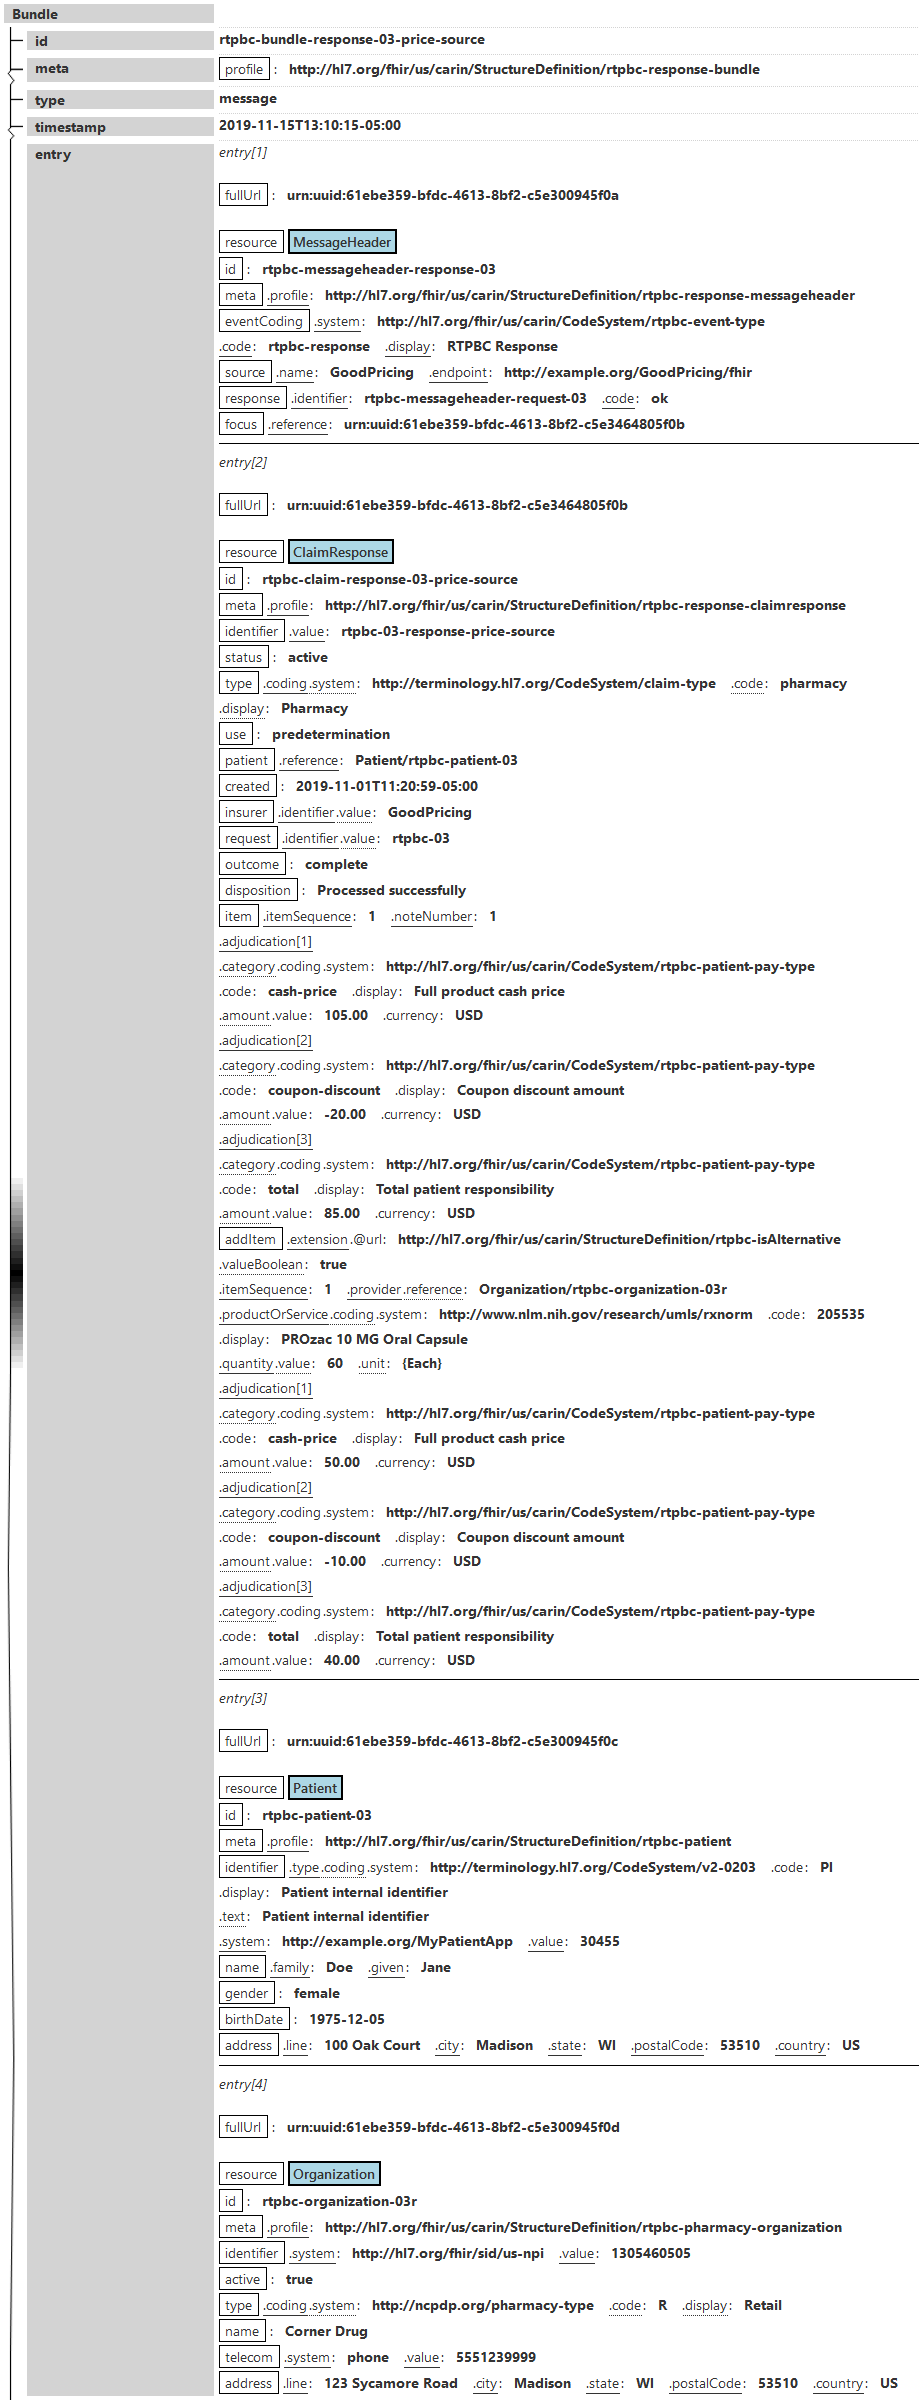
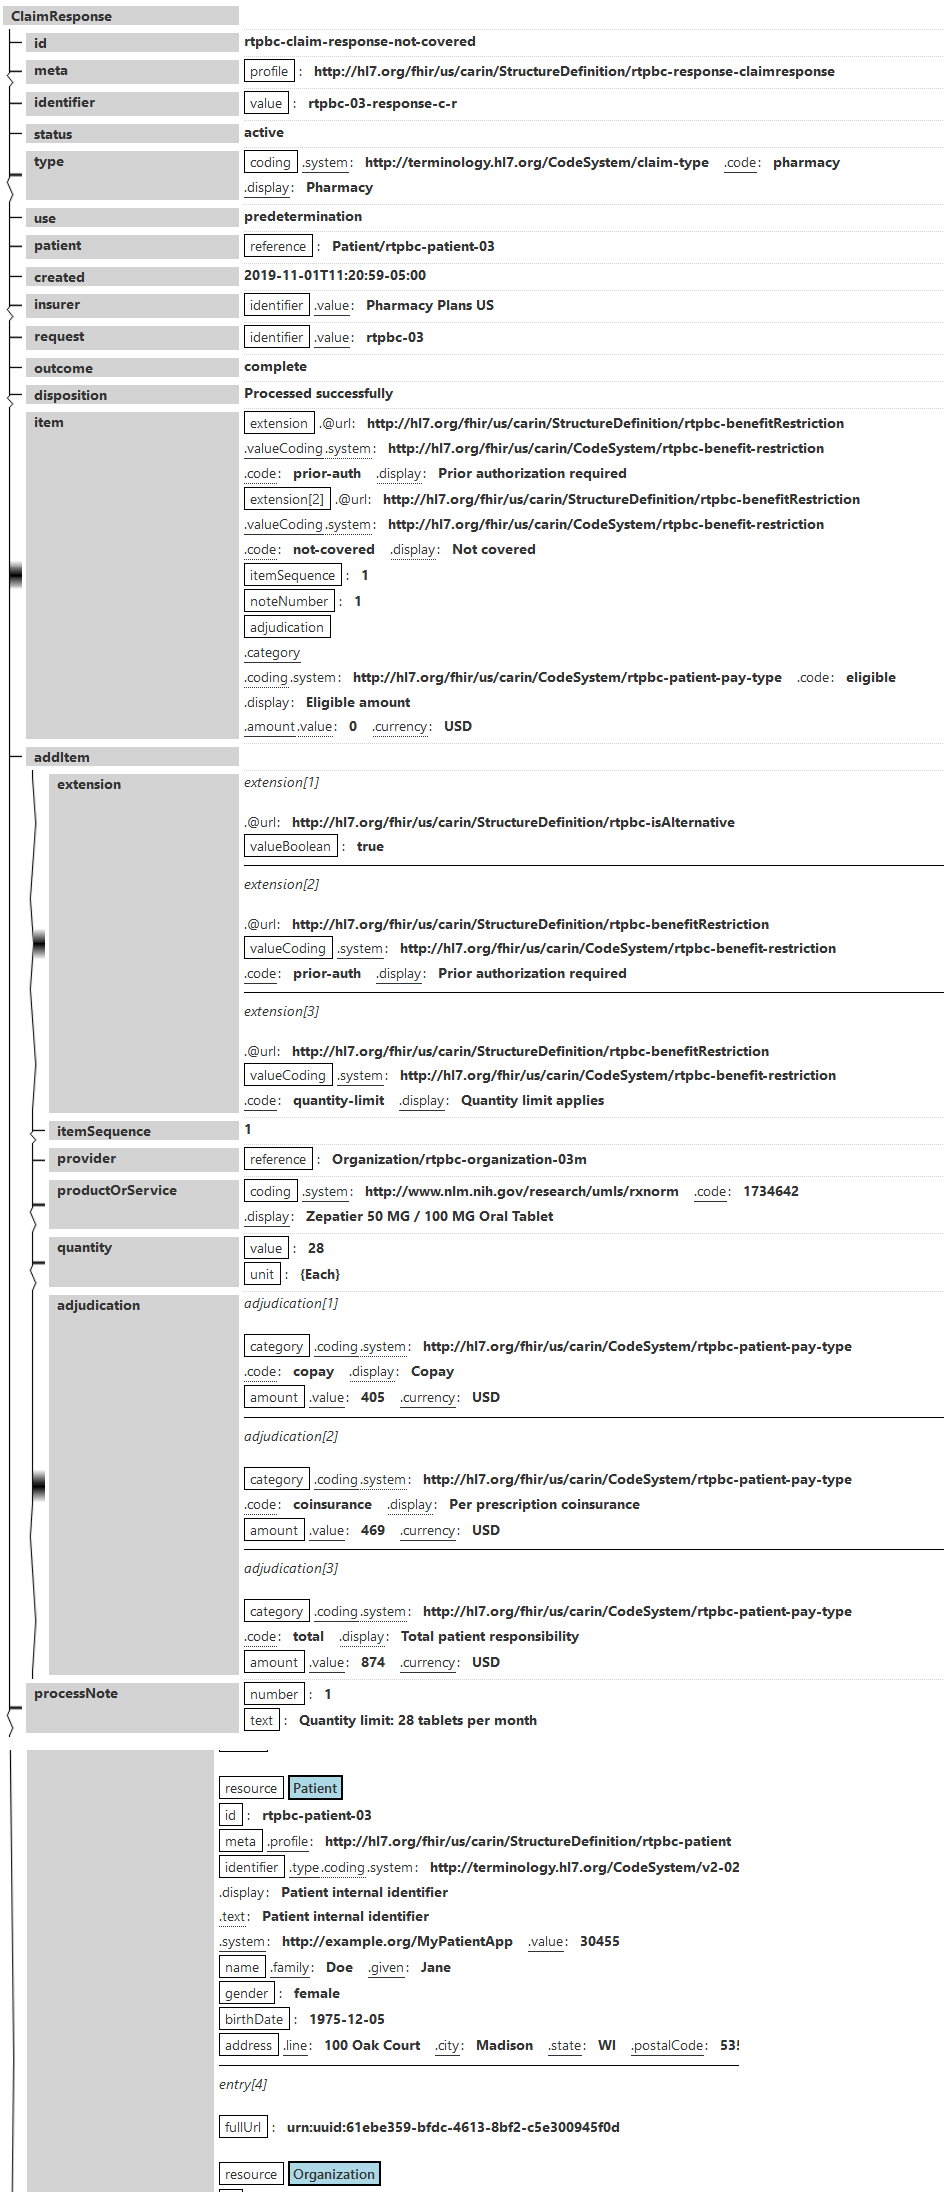
Added example illustrating not covered
And other small cleanups

diff --git a/input/pages/ClaimResponse-rtpbc-claim-response-not-covered-intro.md b/input/pages/ClaimResponse-rtpbc-claim-response-not-covered-intro.md
@@ -1,0 +1,7 @@
+<h3 id="example-rtpbc-claimresponse-not-covered">RTPBC ClaimResponse - requested drug is not covered</h3>
+<p>In this example:</p>
+<ul>
+<li>the requested medication is not covered by the patient's plan. The Benefit Restriction contains a value of "not-covered" and the adjucation shows an eligible amount of zero dollars.</li>
+<li>the addItem contains an alternative drug that is covered, but with a requirement for prior authorziation and a quantity limit. Details of the quantity limit are conveyed in the processNote element.</li>
+</ul>
+<div><img src="rtpbc-claim-response-not-covered.png" alt="claimresponse"></div>

diff --git a/input/pages/other.md b/input/pages/other.md
@@ -54,6 +54,10 @@ Response returned as a Bundle containing a ClaimResponse and supporting resource
 <td><a href="ClaimResponse-rtpbc-claim-response-03-price-source.html">RTPBC ClaimResponse resource returned by a pricing source</a></td>
 </tr>
 <tr>
+<td>ClaimResponse</td>
+<td><a href="ClaimResponse-rtpbc-claim-response-not-covered.html">RTPBC ClaimResponse resource - drug is not covered</a></td>
+</tr>
+<tr>
 <td>Coverage</td>
 <td><a href="Coverage-rtpbc-coverage-03.html">RTPBC Coverage resource</a></td>
 </tr>
